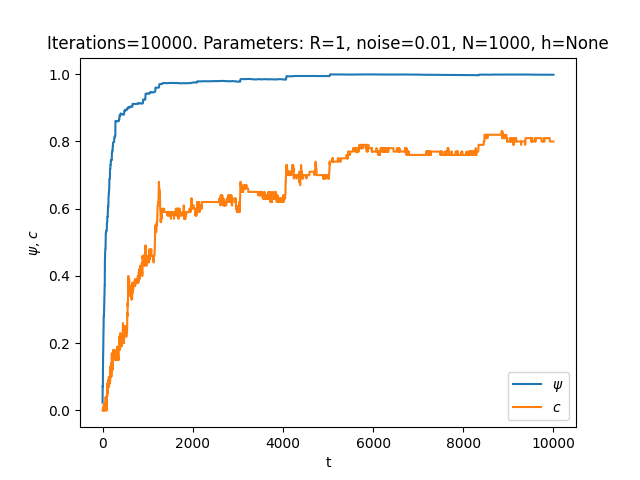
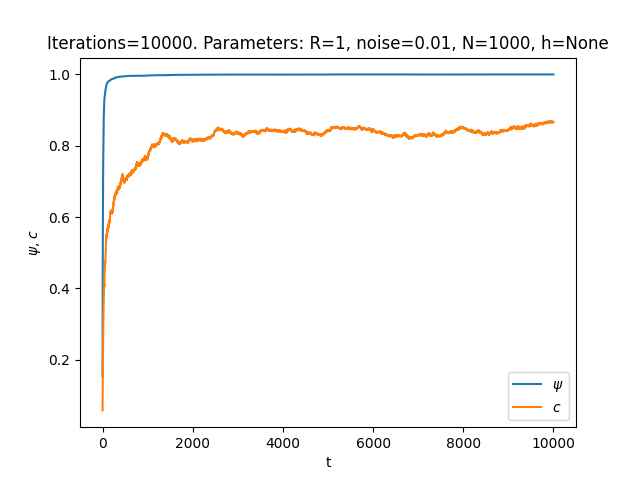
pic

diff --git a/Homework2/VicsekModel.py b/Homework2/VicsekModel.py
@@ -10,7 +10,7 @@ N = 1000
 L = 100
 v = 1
 delta_t = 1
-eta = 0.01
+eta = 0.1
 R = 1
 iterations = 10000
 h = None
